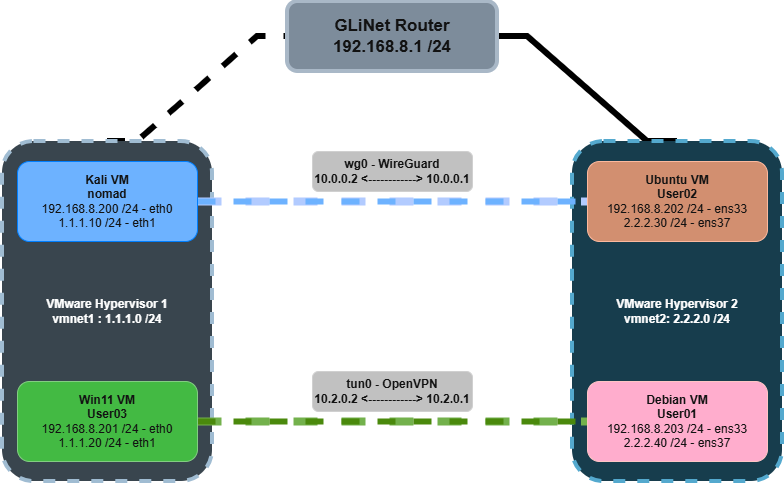
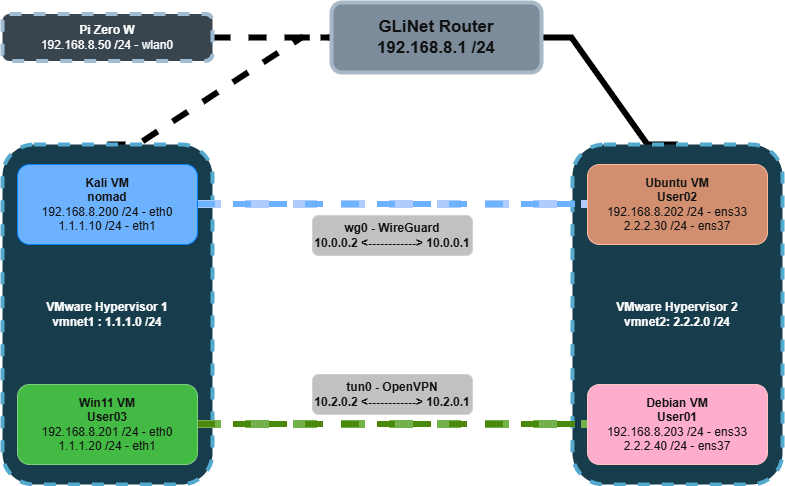
added pi

diff --git a/03-hands-on/04-linux-logging/rsyslog-remote-logging.md b/03-hands-on/04-linux-logging/rsyslog-remote-logging.md
@@ -1,0 +1,83 @@
+# Remote Logging with rsyslog
+
+
+## Overview
+
+Ref:
+- https://docs.rsyslog.com/doc/getting_started
+
+---
+
+## Setup rsyslog server
+
+Create `01-pi-jump-rsyslog.conf` under `/etc/rsyslog.d/`:
+- Default port is 514 for rsyslog
+
+```bash
+sudo tee /etc/rsyslog.d/01-pi-jump-rsyslog.conf << 'EOF'
+module(load="imtcp")
+input(type="imtcp" port="514")
+$template PiLog, "/var/log/remote/%HOSTNAME%.log"
+if $fromhost-ip == '192.168.8.50' then ?PiLog
+& stop
+EOF
+```
+
+Restart `rsyslog`:
+
+```bash
+sudo systemctl restart rsyslog
+```
+
+Verify the port is open:
+```bash
+ss -tlnp | grep 514
+```
+
+---
+
+## Setup rsyslog client
+
+Create `01-kali-rsyslog.conf` under `/etc/rsyslog.d/`:
+
+```bash
+sudo tee /etc/rsyslog.d/01-kali-rsyslog.conf << 'EOF'
+action(
+    type="omfwd"              # Output module for forwarding messages
+    protocol="tcp"            # Use TCP (reliable transport)
+    target="192.168.8.200"    # Destination server (replace with your host)
+    port="514"                # TCP port on the remote syslog server
+    queue.type="linkedList"   # Best practice for network forwarding
+)
+EOF
+```
+
+Restart `rsyslog`:
+
+```bash
+sudo systemctl restart rsyslog
+```
+
+---
+
+## Verify
+
+Back on the server, we can follow the newly created log file once it gets created:
+
+```bash
+sudo tail -f /var/log/remote/*.log
+```
+
+---
+
+## Screenshots
+
+![rsyslog](../../assets/images/linux/rsyslog.png)
+
+---
+
+## Notes / Gotchas
+
+- Files under `/etc/rsyslog.d/` are loaded from `$IncludeConfig` in rsyslog.conf (avoids conflicts with distro updates)
+- `& stop` prevents matched pi logs from also landing in the server's own /var/log/syslog
+- Can test with from the client with `logger -p auth.info "hello from pi"` then check `sudo tail -f /var/log/remote/*.log` on the server

diff --git a/01-fundamentals/01-lab-setup/README.md b/01-fundamentals/01-lab-setup/README.md
@@ -7,12 +7,13 @@ VM-based lab and setup notes:
  
 ## Network Config
  
-| Machine | Hostname | 							IPs	 			    |      Tunnel      | 
+| Machine | Username | 							IPs	 			    |      Tunnel      | 
 |---------|----------|------------------------------|------------------| 
 | Kali    | nomad    | 192.168.8.200 / 1.1.1.10 | wireguard - 10.0.0.2 |
 | Debian  | User01   | 192.168.8.203 / 2.2.2.40 | openvpn - 10.2.0.1   |
 | Ubuntu  | User02   | 192.168.8.202 / 2.2.2.30 | wireguard - 10.0.0.1 |
 | Windows | User03   | 192.168.8.201 / 1.1.1.20 | openvpn - 10.2.0.2   |
+| Pi Zero W | pi   | 192.168.8.50 |  N/A   |
  
 ---
  
@@ -26,6 +27,7 @@ VM-based lab and setup notes:
  
 - Laptop 1: Hypervisor hosting Windows 11 + Kali Linux VMs (WiFi)
 - Laptop 2: Hypervisor hosting Debian + Ubuntu VMs (Ethernet)
+- Pi Zero W: 2.4ghz WiFi
 - Router: GLiNet wireless, tethered internet
 
 | Network| Network    | 
@@ -36,11 +38,13 @@ VM-based lab and setup notes:
 
 - Hypervisor: VMware
 ---
- 
-## Kali
- 
+
+## Raspberry Pi Zero W (1)
+
+Running the `2026-04-21-raspios-trixie-armhf-lite` image
+
 ---
- 
+
 ## Debian
  
 Had to add user to sudo group after install:
@@ -50,11 +54,7 @@ su -
 sudo usermod -aG sudo nomad
 # refresh group - takes effect in new session
 ```
- 
----
- 
-## Ubuntu
- 
+
 ---
  
 ## Windows
